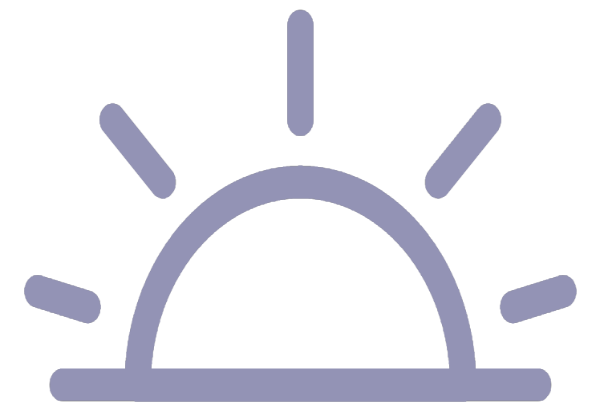
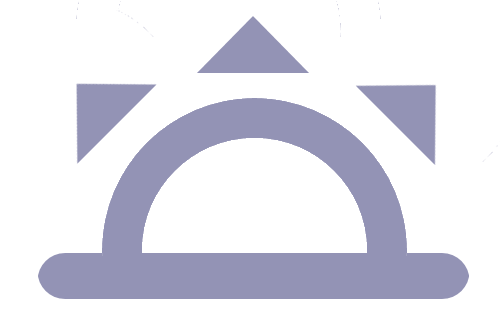
Add misc tweaks before demo
Features:
 - Menu icon changes to back arrow while in stats menu
 - The sunrise icon is different
 - The heartbeat updates every 3 seconds and has a smaller variation
 - The FX warning message no longer appears on the console on startup

diff --git a/src/teemtoo/logic/Controller.java b/src/teemtoo/logic/Controller.java
@@ -33,7 +33,6 @@ import java.util.ResourceBundle;
  */
 public class Controller implements Initializable {
 
-
     //Define constants (window dimensions, color, etc...)
     public static final int WIDTH = 300, HEIGHT = 200;
     public static final String FXML_NAME = "activity-tracker.fxml";
@@ -66,8 +65,9 @@ public class Controller implements Initializable {
     private int calorieIntakeAmount = CALORIE_INTAKE_LEVELS[1];
 
     private ImageView menuIcon = getImage("hamburger", 40, 40);
+    private ImageView backIcon = getImage("back", 35, 35);
     private ImageView moonIcon = getImage("moon", 40, 35);
-    private ImageView sunIcon = getImage("sunrise", 40, 30);
+    private ImageView sunIcon = getImage("sunrise", 40, 35);
 
     @Override
     public void initialize(URL location, ResourceBundle resources) {
@@ -83,9 +83,8 @@ public class Controller implements Initializable {
         separator.visibleProperty().bind(inSleepMode.not());
     }
 
-
     //Switch to tracker to the "left"
-    //(moveLeft() and moveRight() will only work if the user is not asleep or looking at stats)
+    //(moveLeft() and moveRight() will only work if the user is not asleep)
     public void moveLeft() {
         if (!inSleepMode.get()) {
             DataManager.getInstance().previousTracker();
@@ -110,6 +109,7 @@ public class Controller implements Initializable {
     //Opens stats menu
     public void toggleStatsMenu() {
         inStatsMenu.set(!isInStatsMenu());
+        menuButton.setGraphic(isInStatsMenu() ? backIcon : menuIcon);
         if (isInStatsMenu()) {
             updateStatsMenu();
         }

diff --git a/src/teemtoo/sensor/PulseReader.java b/src/teemtoo/sensor/PulseReader.java
@@ -17,14 +17,14 @@ public class PulseReader implements Sensor {
     @Override
     public void poll() {
         pollCounter++;
-        if (pollCounter == 120) {
+        if (pollCounter == 180) {
             update(new HeartEvent(getHeartRate()));
             pollCounter = 0;
         }
     }
 
     private double getHeartRate() {
-        return 80 + random.nextGaussian() * 6;
+        return 80 + random.nextGaussian() * 4;
     }
 
 }

diff --git a/src/teemtoo/tracker/HeartRateTracker.java b/src/teemtoo/tracker/HeartRateTracker.java
@@ -32,8 +32,6 @@ public class HeartRateTracker extends Tracker<Double> {
     //The heart tracker will supposedly receive a bpm event every 2 seconds
     @Override
     protected void handle(Event event) {
-
-        // todo determine best way to calculate bpm
         bpm.set(event.getBPMData());
     }
 
